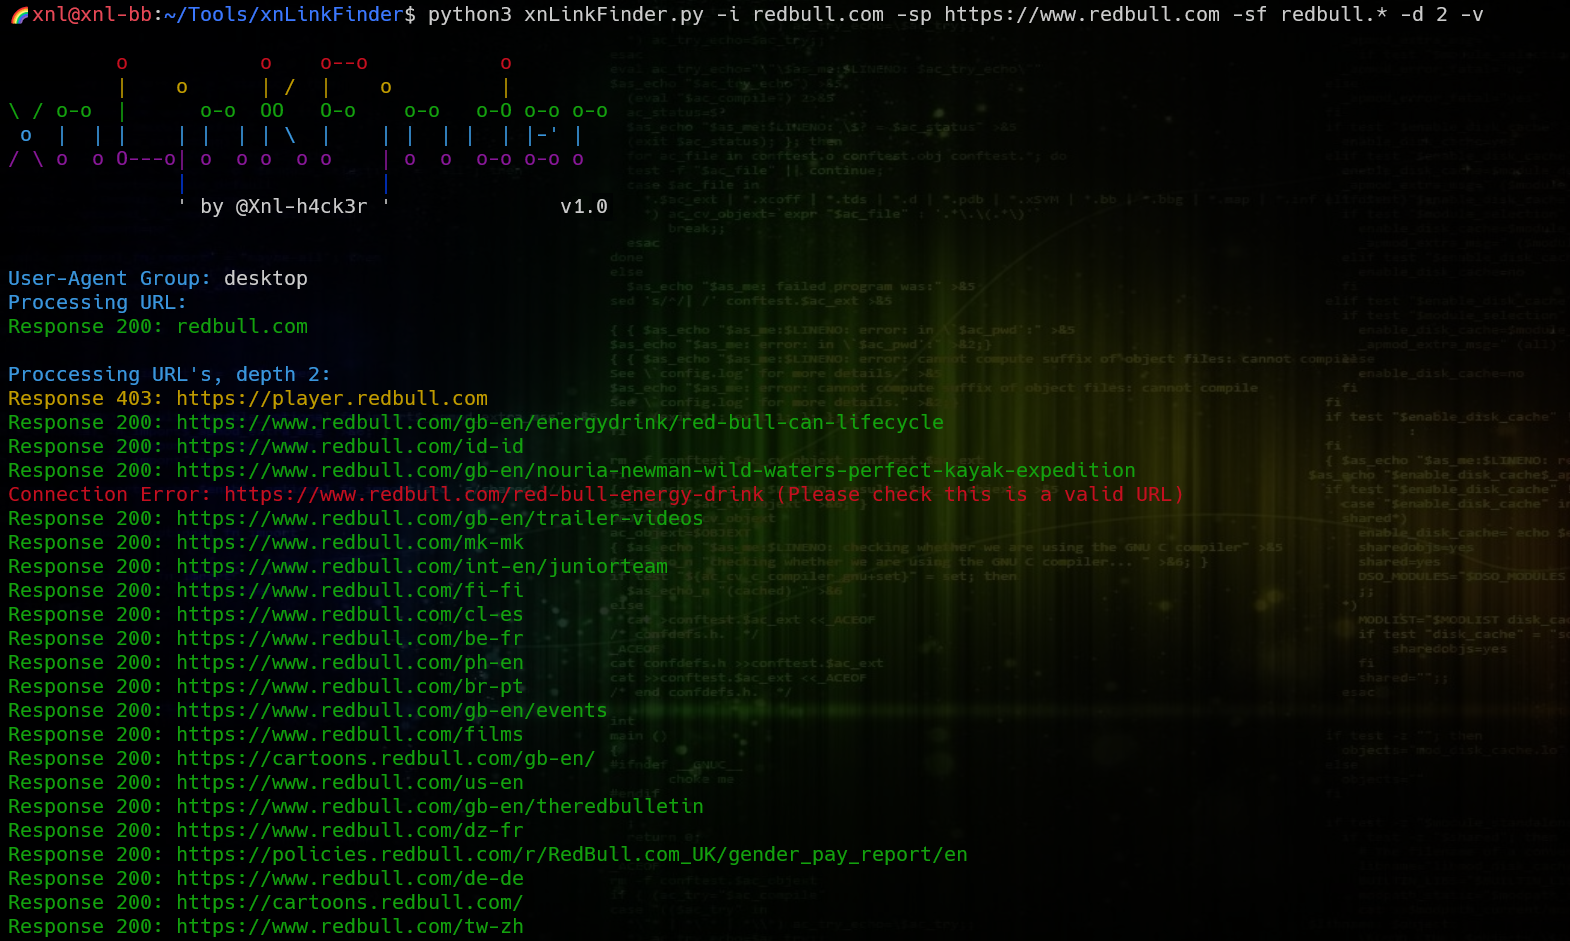
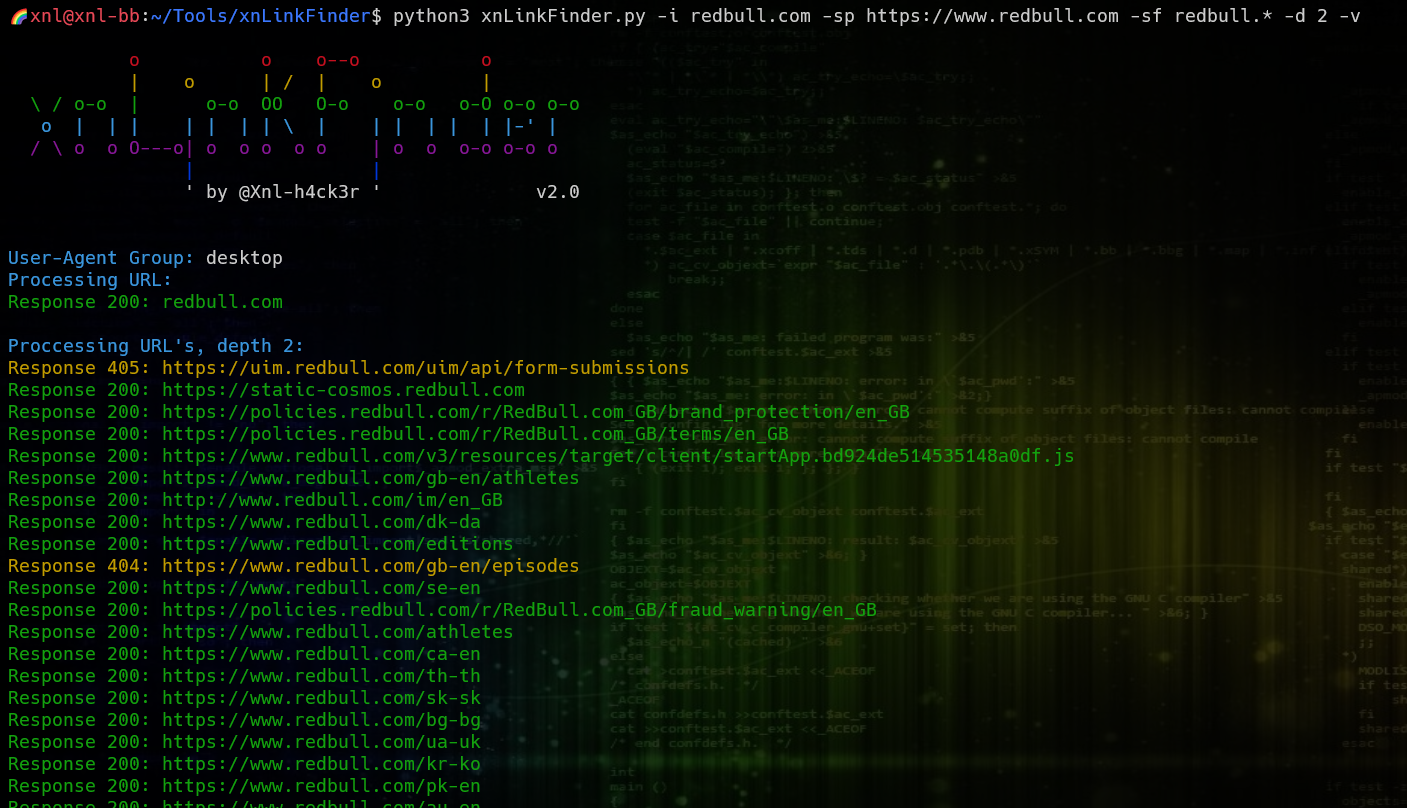
v2.0 - See CHANGELOG.md

diff --git a/xnLinkFinder.py b/xnLinkFinder.py
@@ -3,7 +3,7 @@
 
 # Good luck and good hunting! If you really love the tool (or any others), or they helped you find an awesome bounty, consider BUYING ME A COFFEE! (https://ko-fi.com/xnlh4ck3r) ☕ (I could use the caffeine!)
 
-VERSION = "1.8"
+VERSION = "2.0"
 inScopePrefixDomains = None
 inScopeFilterDomains = None
 burpFile = False
@@ -55,6 +55,7 @@ import enum
 from urllib3.exceptions import InsecureRequestWarning
 import sys
 from urllib.parse import urlparse
+from tempfile import NamedTemporaryFile
 
 # Try to import psutil to show memory usage
 try:
@@ -1008,14 +1009,21 @@ def processLinkOutput():
                 + colored(str(linkCount) + " 🤘\n", "white")
             )
 
+        # If the -ow / --output_overwrite argument was passed and the file exists already, get the contents of the file to include
+        appendedUrls = False
+        if args.output != "cli" and not args.output_overwrite:
+            try:
+                existingLinks = open(os.path.expanduser(args.output), "r")
+                for link in existingLinks.readlines():
+                    linksFound.add(link.strip())
+                appendedUrls = True
+            except:
+                pass
+            
         # If -o (--output) argument was not "cli" then open the output file
         if args.output != "cli":
             try:
-                # If argument -ow was passed and the file exists, overwrite it, otherwise append to it
-                if args.output_overwrite:
-                    outFile = open(os.path.expanduser(args.output), "w")
-                else:
-                    outFile = open(os.path.expanduser(args.output), "a")
+                outFile = open(os.path.expanduser(args.output), "w")
             except Exception as e:
                 if vverbose():
                     writerr(colored("ERROR processLinkOutput 2: " + str(e), "red"))
@@ -1067,12 +1075,15 @@ def processLinkOutput():
                     writerr(colored("ERROR processLinkOutput 4: " + str(e), "red"))
 
             if verbose():
-                write(
-                    colored(
-                        "Output successfully written to file " + args.output + "\n",
-                        "cyan",
-                    )
-                )
+                if outputCount == 0:
+                    write(colored('No links were found so nothing written to file.\n', 'cyan'))
+                else:   
+                    if appendedUrls:
+                        write(
+                            colored('Links successfully appended to file ', 'cyan')+colored(args.output,'white')+colored(' and duplicates removed.\n','cyan'))
+                    else:
+                        write(
+                            colored('Links successfully written to file ', 'cyan')+colored(args.output+'\n','white'))
     except Exception as e:
         if vverbose():
             writerr(colored("ERROR processLinkOutput 1: " + str(e), "red"))
@@ -1088,14 +1099,21 @@ def processParamOutput():
             + colored(str(paramsCount) + " 🤘\n", "white")
         )
 
+        # If the -ow / --output_overwrite argument was passed and the file exists already, get the contents of the file to include
+        appendedParams = False
+        if args.output != "cli" and not args.output_overwrite:
+            try:
+                existingParams = open(os.path.expanduser(args.output_params), "r")
+                for param in existingParams.readlines():
+                    paramsFound.add(param.strip())
+                appendedParams = True
+            except:
+                pass
+            
         # If -op (--output_params) argument was not "cli" then open the output file
         if args.output_params != "cli":
             try:
-                # If argument -ow was passed and the file exists, overwrite it, otherwise append to it
-                if args.output_overwrite:
-                    outFile = open(os.path.expanduser(args.output_params), "w")
-                else:
-                    outFile = open(os.path.expanduser(args.output_params), "a")
+                outFile = open(os.path.expanduser(args.output_params), "w")
             except Exception as e:
                 if vverbose():
                     writerr(colored("ERROR processParamOutput 2: " + str(e), "red"))
@@ -1128,14 +1146,16 @@ def processParamOutput():
                     writerr(colored("ERROR processParamOutput 4: " + str(e), "red"))
 
             if verbose():
-                write(
-                    colored(
-                        "Output successfully written to file "
-                        + args.output_params
-                        + "\n",
-                        "cyan",
-                    )
-                )
+                if outputCount == 0:
+                    write(colored('No parameters were found so nothing written to file.\n', 'cyan'))
+                else:   
+                    if appendedParams:
+                        write(
+                            colored('Parameters successfully appended to file ', 'cyan')+colored(args.output_params,'white')+colored(' and duplicates removed.\n','cyan'))
+                    else:
+                        write(
+                            colored('Parameters successfully written to file ', 'cyan')+colored(args.output_params+'\n','white'))
+                        
     except Exception as e:
         if vverbose():
             writerr(colored("ERROR processParamOutput 1: " + str(e), "red"))
@@ -1998,18 +2018,15 @@ def processBurpFile():
 
             if reply.lower() == "y":
                 try:
-                    cmd = (
-                        "sed -i -E '/(<time|<host|<port|<prot|<meth|<path|<exte|<requ|<stat|<responselength|<mime|<comm)/d' "
-                        + filePath
-                    )
-                    run = subprocess.run(
-                        cmd,
-                        shell=True,
-                        text=True,
-                        stdout=subprocess.PIPE,
-                        check=True,
-                    )
+                    matched = re.compile('(<time|<host|<port|<prot|<meth|<path|<exte|<requ|<stat|<responselength|<mime|<comm)').search
+                    with open(filePath, encoding='utf-8') as burpFile:
+                        with NamedTemporaryFile(mode='w', encoding='utf-8', dir=os.path.dirname(filePath), delete=False) as tempFile:
+                            for line in burpFile:
+                                if not matched(line):
+                                    print(line, end='', file=tempFile)
+                    os.replace(tempFile.name, burpFile.name)
                 except Exception as e:
+                    writerr(colored("Unable to remove the tags, but that's fine!","yellow"))
                     if verbose():
                         writerr(colored("There was a problem: " + str(e)))
 

diff --git a/setup.py b/setup.py
@@ -4,8 +4,8 @@ from setuptools import setup, find_packages
 setup(
     name="xnLinkFinder",
     packages=find_packages(),
-    version="1.8",
-    description="A python script to find endpoints from the from a URL, file of URLsm or a Burp xml file.",
+    version="2.0",
+    description="A python script to find endpoints from a URL, a file of URLs, a directory of files, a Burp XML file or a ZAP ASCII message file.",
     long_description=open("README.md").read(),
     author="@xnl-h4ck3r",
     url="https://github.com/xnl-h4ck3r/xnlLinkFinder",

diff --git a/CHANGELOG.md b/CHANGELOG.md
@@ -1,5 +1,14 @@
 ## Changelog
 
+- v2.0
+
+  - Changed
+
+    - Made xnLinkFinder OS agnostic. It previously only worked on Linux due to calling OS commands. The method for removing tags from a Burp file no longer uses an OS subprocess. Also, the links and parameter files are no longer being de-duped using OS commands; the links from the existing file are loaded before writing output and added to the current set of results before writing to file again.
+    - Completed the last TODO item, so removed from README
+    - Fixed the description in the setup file
+    - Update images on README to reflect latest version
+
 - v1.8
 
   - New

diff --git a/README.md b/README.md
@@ -20,7 +20,7 @@ xnLinkFinder supports **Python 3**.
 ```
 $ git clone https://github.com/xnl-h4ck3r/xnLinkFinder.git
 $ cd xnLinkFinder
-$ python setup.py install
+$ sudo python setup.py install
 ```
 
 ## Usage
@@ -197,7 +197,7 @@ If you come across any problems at all, or have ideas for improvements, please f
 
 ## TODO
 
-- Make it OS agnostic. Currently it only works properly on Linux due to direct OS command calls
+- I seem to have completed all the TODO's I originally had! If you think of any that need adding, let me know 🤘
 
 ## Example output
 
